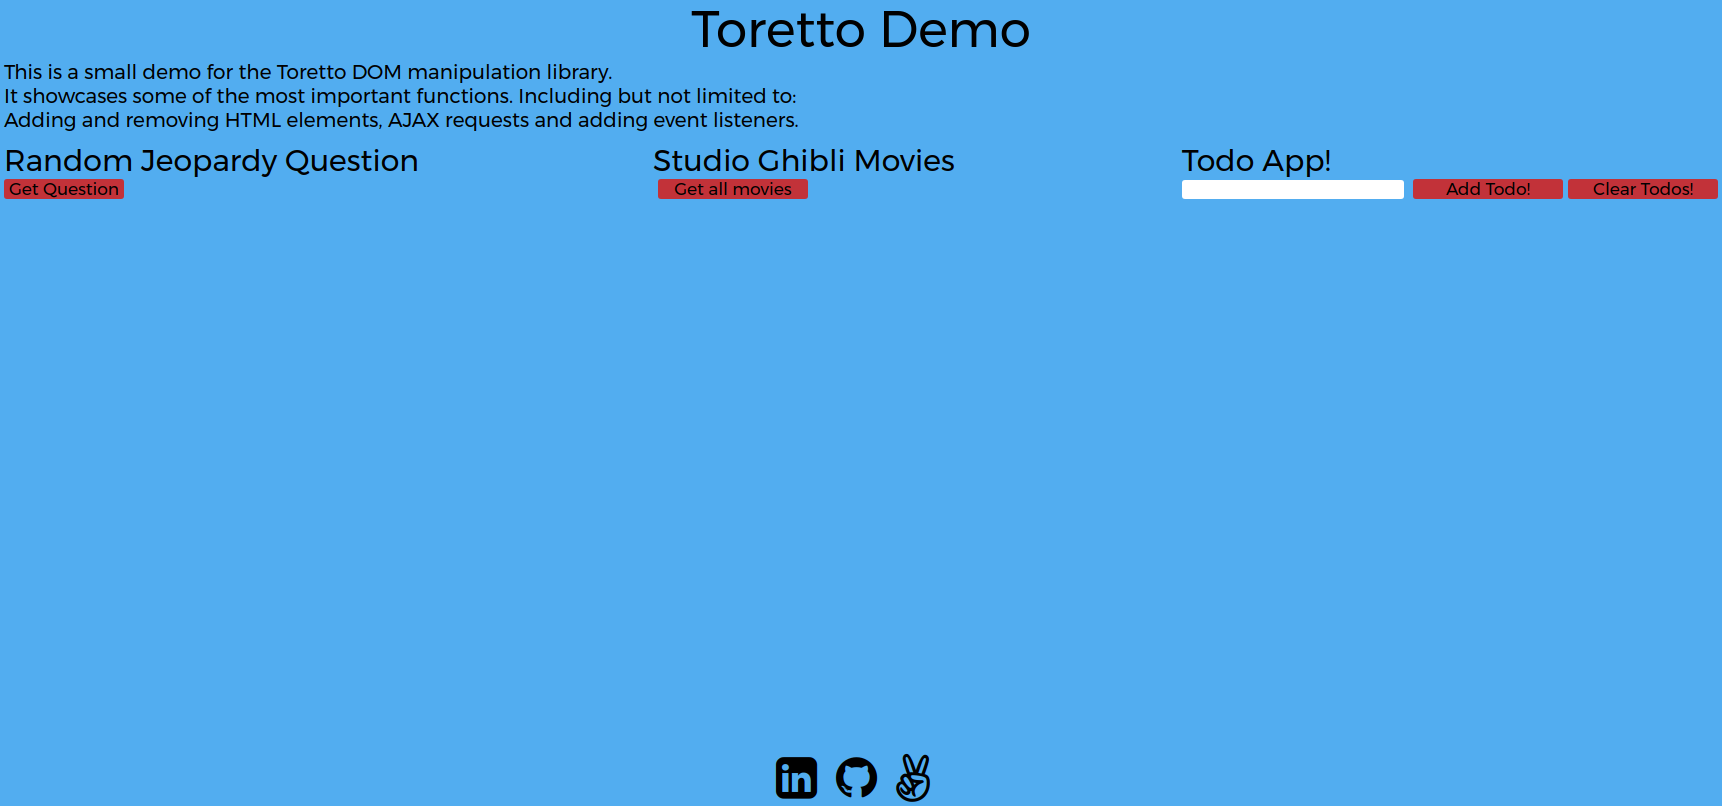
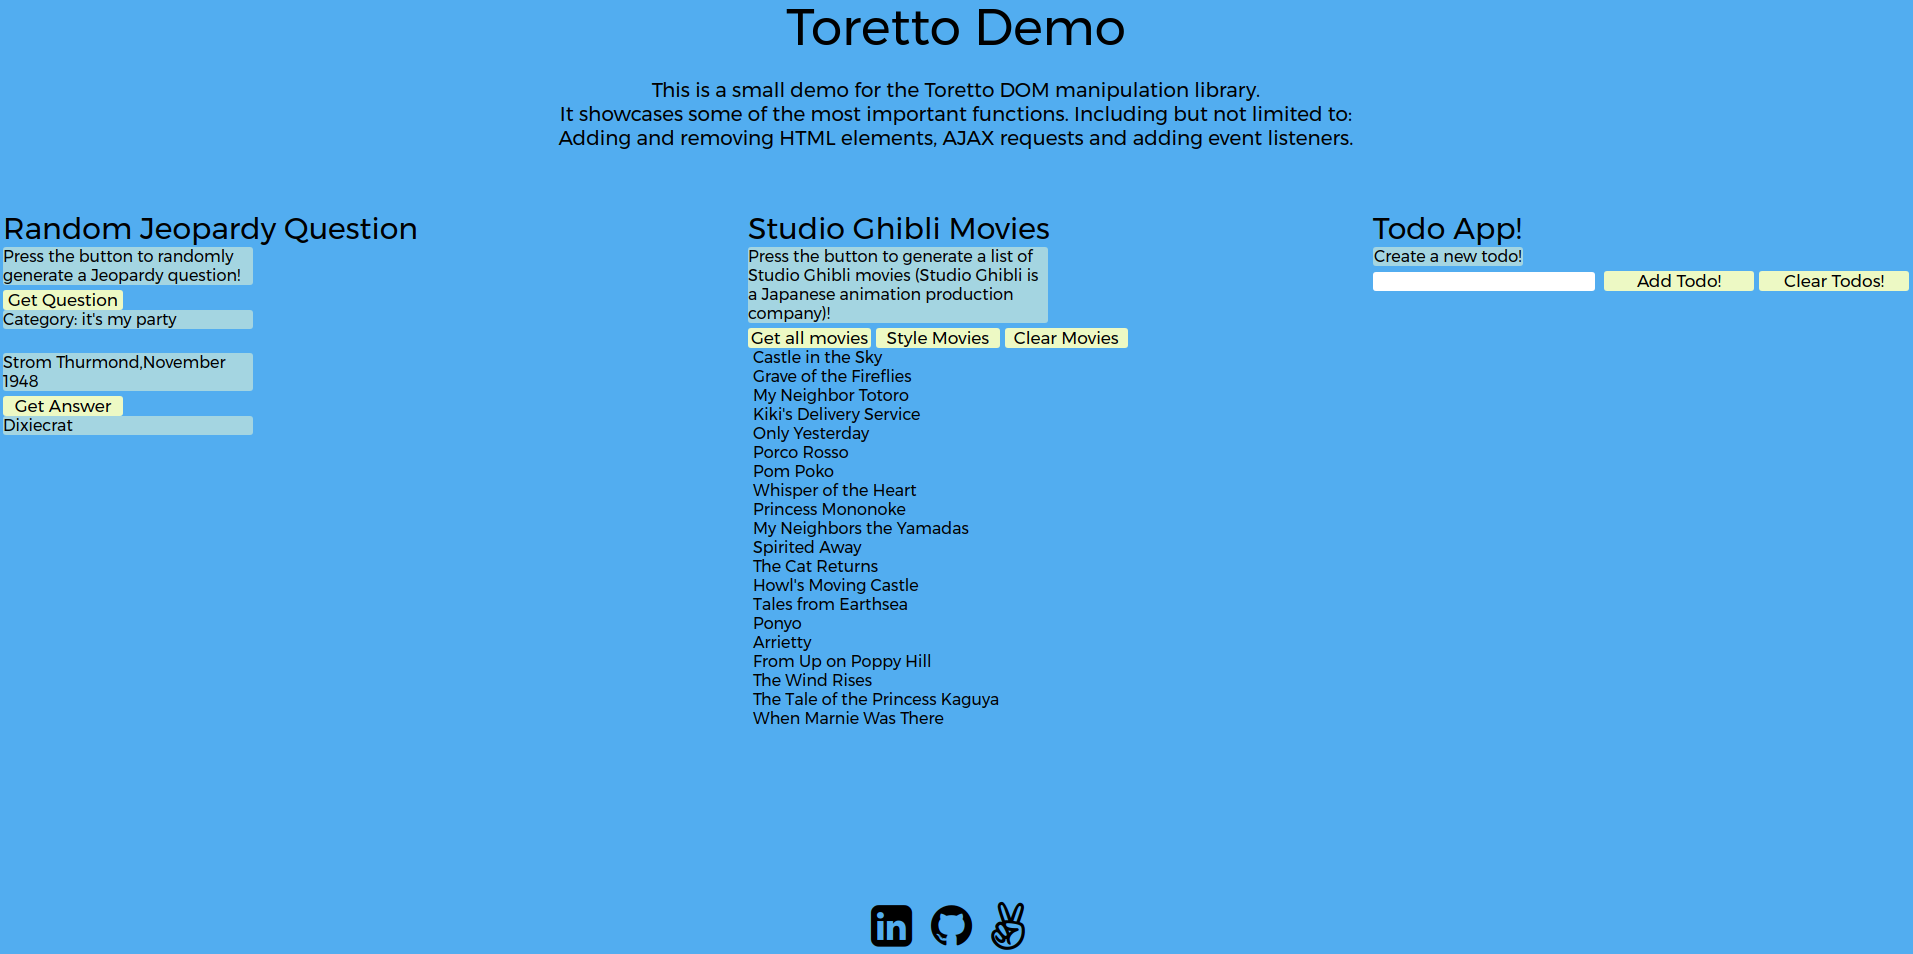
Styling

diff --git a/assets/styles.css b/assets/styles.css
@@ -66,9 +66,12 @@ html {
 .description {
   display: flex;
   flex-direction: column;
-  align-self: flex-start;
+  align-self: center;
   font-size: 20px;
   margin-bottom: 10px;
+  align-items: center;
+  margin-bottom: 60px;
+  margin-top: 20px;
 }
 
 .header {
@@ -90,13 +93,20 @@ html {
   width: 500px;
 }
 
+.j-div p {
+  width: 250px;
+  background-color: #a3d6e2;
+  border-radius: 3px;
+  margin-bottom: 5px;
+}
+
 .j-div button {
   /*border: 1px solid black;*/
   border-radius: 3px;
   width: 120px;
   font-size: 17px;
   text-align: center;
-  background-color: #c53137;
+  background-color: #eef9c5;
   /*margin-left: 5px;*/
 }
 
@@ -114,12 +124,19 @@ h1 {
   width: 380px;
 }
 
+.ghibli-main-div p {
+  width: 300px;
+  background-color: #a3d6e2;
+  border-radius: 3px;
+  margin-bottom: 5px;
+}
+
 .all-movies-btn {
   border-radius: 3px;
   width: 150px;
-  margin-left: 5px;
+  /*margin-left: 5px;*/
   text-align: center;
-  background-color: #c53137;
+  background-color: #eef9c5;
   font-size: 17px;
 }
 
@@ -132,7 +149,7 @@ h1 {
   width: 150px;
   margin-left: 5px;
   text-align: center;
-  background-color: #c53137;
+  background-color: #eef9c5;
   font-size: 17px;
 }
 
@@ -162,7 +179,7 @@ h1 {
   width: 150px;
   margin-left: 5px;
   text-align: center;
-  background-color: #c53137;
+  background-color: #eef9c5;
   font-size: 17px;
 }
 
@@ -170,6 +187,14 @@ h1 {
 .todo-main-div input[type="text"] {
   border-radius: 3px;
   background-color: white;
+}
+
+.todo-main-div p {
+  width: 150px;
+  background-color: #a3d6e2;
+  border-radius: 3px;
+  margin-bottom: 5px;
+  text-align: center;
 }
 
 .todo-functions {
@@ -181,14 +206,14 @@ h1 {
   width: 150px;
   margin-left: 5px;
   text-align: center;
-  background-color: #c53137;
+  background-color: #eef9c5;
   font-size: 17px;
 }
 
 .link-footer {
   display: flex;
   position: fixed;
-  margin-top: 750px;
+  margin-top: 900px;
   justify-content: center;
   align-self: center;
 }

diff --git a/index.html b/index.html
@@ -19,6 +19,7 @@
       <div class="all-apps">
         <div class="j-div">
           <h1>Random Jeopardy Question</h1>
+          <p>Press the button to randomly generate a Jeopardy question!</p>
           <button class="q-btn" type="button" name="button">Get Question</button>
           <div class="j-q-a">
             <div class="j-q">
@@ -32,7 +33,7 @@
 
         <div class="ghibli-main-div">
           <h1>Studio Ghibli Movies</h1>
-
+          <p>Press the button to generate a list of Studio Ghibli movies (Studio Ghibli is a Japanese animation production company)!</p>
           <div class="all-movies-div">
             <button type="button" class="all-movies-btn" name="button">Get all movies</button>
           </div>
@@ -47,6 +48,7 @@
         <div class="todo-main-div">
 
           <h1>Todo App!</h1>
+          <p>Create a new todo!</p>
           <div class="todo-functions">
             <form class="todo-form">
               <input type="text" class="todo-text-input" value="">

diff --git a/demo.js b/demo.js
@@ -88,7 +88,7 @@ function appendQuestion(question) {
   $l('.j-q').append(
     `<p>Category: ${question.category.title}</p></br><p>${question.question}</p>`
   );
-  // debugger
+
   $l('.j-a').append(
     `<button class="j-a-btn" type="button" name="button">Get Answer</button>`
   );
@@ -102,7 +102,6 @@ function appendQuestion(question) {
 }
 
 function revealAnswer() {
-  // debugger
   $l('.j-a-p').attr("style", "");
 }
 

diff --git a/README.md b/README.md
@@ -70,6 +70,14 @@ Returns the attribute value of an element.
 
 Adds a class to an element.
 
+```javascript
+addClass(string) {
+  this.els.forEach( (attr) => {
+    return attr.classList.add(string);
+  });
+}
+```
+
 ### removeClass
 
 Removes a class from an element.
